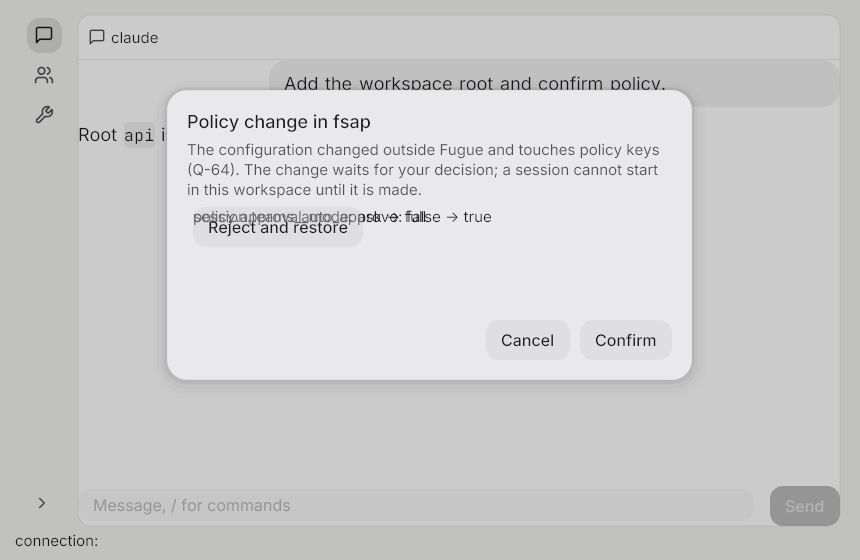
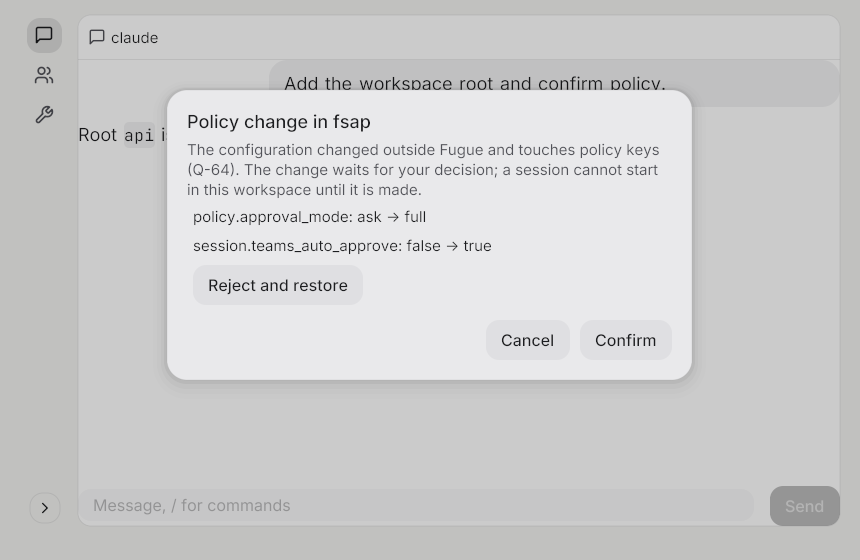
fix(ui): lay the policy diff out above the dialog actions (FUG-33)
wsBody.field tracked each row's y but never offset the draw, so every
row of a workspace dialog body painted at the body's origin: the policy
diff lines and the Reject and restore button overlapped, and the root
form's fields stacked on each other. Offset each row by its y and record
the row boxes so the layout is testable.

Changed region(s): [[0.2116, 0.3643, 0.5744, 0.4554], [0.2419, 0.4857, 0.4233, 0.5161], [0.0302, 0.9411, 0.1209, 0.9714]]

diff --git a/ui/internal/appwin/workspaceconfirmdlg_test.go b/ui/internal/appwin/workspaceconfirmdlg_test.go
@@ -1,0 +1,84 @@
+package appwin
+
+import (
+	"fmt"
+	"image"
+	"testing"
+
+	"gioui.org/layout"
+	"gioui.org/op"
+	"gioui.org/unit"
+
+	"github.com/syurodev/fugue/ui/internal/kit"
+	"github.com/syurodev/fugue/ui/internal/workspace"
+)
+
+// policyRows lays the Q-64 card's body out at width w and scale and returns
+// the rows' boxes plus the body size the dialog scrolls over.
+func policyRows(t *testing.T, keys int, scale float32) ([]image.Rectangle, image.Point) {
+	t.Helper()
+	sc, _ := newTestScreens(t)
+	env := newInboxTestEnv(t)
+	env.UIScale = scale
+	diff := make([]workspace.DiffEntry, 0, keys)
+	for i := range keys {
+		diff = append(diff, workspace.DiffEntry{Key: fmt.Sprintf("policy.approvals.key_%d", i), OldValue: "false", NewValue: "true"})
+	}
+	det := wsTestDetail(diff)
+	sc.dlg.policy.openFor(det)
+
+	var ops op.Ops
+	gtx := layout.Context{
+		Ops:         &ops,
+		Metric:      env.Metric(unit.Metric{PxPerDp: 1, PxPerSp: 1}),
+		Constraints: layout.Exact(image.Pt(420, 1<<20)),
+	}
+	var bands kit.DialogBands
+	body := newWSBody(env, &gtx, &bands, sc.fail)
+	sc.dlg.policy.fill(env, body, sc)
+	if sc.lastErr != "" {
+		t.Fatalf("layout failed: %s", sc.lastErr)
+	}
+	return body.rows, body.size()
+}
+
+// assertRowsStack fails unless every row is non-empty, inside bounds and
+// clear of the rows drawn before it.
+func assertRowsStack(t *testing.T, rows []image.Rectangle, bounds image.Rectangle) {
+	t.Helper()
+	for i, r := range rows {
+		if r.Empty() {
+			t.Fatalf("row %d is empty: %v", i, r)
+		}
+		if !r.In(bounds) {
+			t.Fatalf("row %d %v overflows the body %v", i, r, bounds)
+		}
+		for j := range i {
+			if r.Overlaps(rows[j]) {
+				t.Fatalf("row %d %v overlaps row %d %v", i, r, j, rows[j])
+			}
+		}
+	}
+}
+
+// TestPolicyCardRowsDoNotOverlap pins FUG-33: every diff row and the Reject
+// button sit in their own box, in order, inside the body, for one key and for
+// enough keys that the dialog scrolls.
+func TestPolicyCardRowsDoNotOverlap(t *testing.T) {
+	t.Parallel()
+	for _, keys := range []int{1, 3, 60} {
+		for _, scale := range []float32{1, 1.25} {
+			t.Run(fmt.Sprintf("keys%d-ui%.0f", keys, scale*100), func(t *testing.T) {
+				t.Parallel()
+				rows, size := policyRows(t, keys, scale)
+				if len(rows) != keys+1 {
+					t.Fatalf("rows = %d, want %d diff rows plus the reject button", len(rows), keys)
+				}
+				assertRowsStack(t, rows, image.Rectangle{Max: size})
+				if last := rows[keys-1]; last.Max.Y > rows[keys].Min.Y {
+					t.Fatalf("last diff row %v is not above the reject button %v", last, rows[keys])
+				}
+			})
+		}
+	}
+}

diff --git a/ui/internal/appwin/workspacedlg.go b/ui/internal/appwin/workspacedlg.go
@@ -8,6 +8,7 @@ import (
 
 	"gioui.org/io/event"
 	"gioui.org/layout"
+	"gioui.org/op"
 
 	"github.com/syurodev/fugue/pkg/client"
 
@@ -94,6 +95,8 @@ type wsBody struct {
 	w     int
 	gap   int
 	y     int
+	// rows is every drawn row's box in body coordinates, in draw order.
+	rows []image.Rectangle
 }
 
 func newWSBody(env *kit.Env, gtx *layout.Context, bands *kit.DialogBands, fail func(error)) *wsBody {
@@ -105,13 +108,18 @@ func newWSBody(env *kit.Env, gtx *layout.Context, bands *kit.DialogBands, fail f
 func (b *wsBody) field(tag event.Tag, draw func(gtx *layout.Context) (layout.Dimensions, error)) {
 	local := *b.gtx
 	local.Constraints.Min.X = b.w
+	// Each row is drawn at its own y: the recorded body ops all start at the
+	// body's origin, so without the offset every row paints on the first.
+	off := op.Offset(image.Pt(0, b.y)).Push(local.Ops)
 	dims, err := draw(&local)
+	off.Pop()
 	if err != nil {
 		b.fail(err)
 	}
 	if tag != nil {
 		b.bands.Focusable(tag, b.y, b.y+dims.Size.Y)
 	}
+	b.rows = append(b.rows, image.Rectangle{Min: image.Pt(0, b.y), Max: image.Pt(b.w, b.y+dims.Size.Y)})
 	b.y += dims.Size.Y + b.gap
 }
 

diff --git a/ui/internal/appwin/workspaceconfirmdlg.go b/ui/internal/appwin/workspaceconfirmdlg.go
@@ -194,6 +194,13 @@ func (d *policyDialog) layout(env *kit.Env, gtx *layout.Context, sc *screens) {
 
 func (d *policyDialog) body(env *kit.Env, gtx *layout.Context, bands *kit.DialogBands, sc *screens) image.Point {
 	body := newWSBody(env, gtx, bands, sc.fail)
+	d.fill(env, body, sc)
+	return body.size()
+}
+
+// fill lays the card's rows out top to bottom: the diff, one changed key per
+// row, then the reject action on a row of its own, then the host's answer.
+func (d *policyDialog) fill(env *kit.Env, body *wsBody, sc *screens) {
 	if len(d.diff) == 0 {
 		body.label("The change's diff is not known yet; the next workspace read fills it in.", env.Th.Chrome().FgMuted)
 	}
@@ -214,7 +221,6 @@ func (d *policyDialog) body(env *kit.Env, gtx *layout.Context, bands *kit.Dialog
 	if d.lastErr != "" {
 		body.label(d.lastErr, env.Th.Status().Danger)
 	}
-	return body.size()
 }
 
 func (d *policyDialog) submit(sc *screens) {
